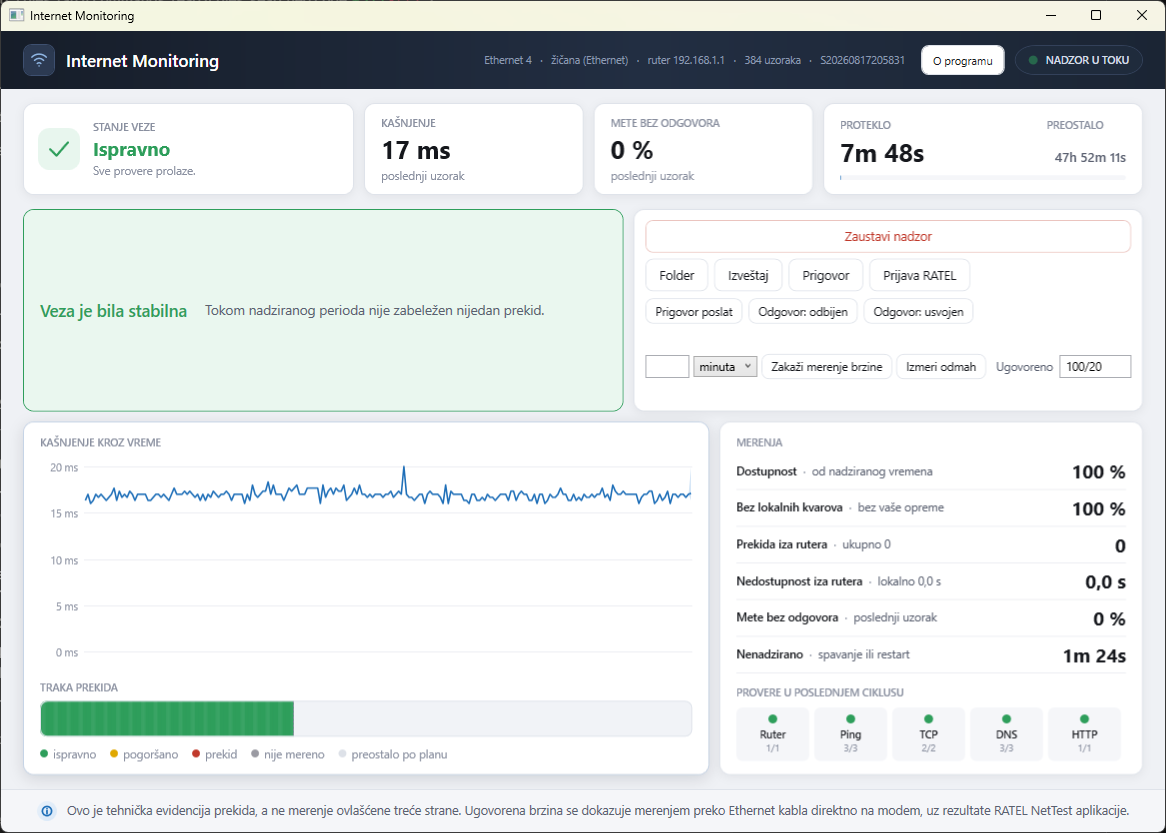
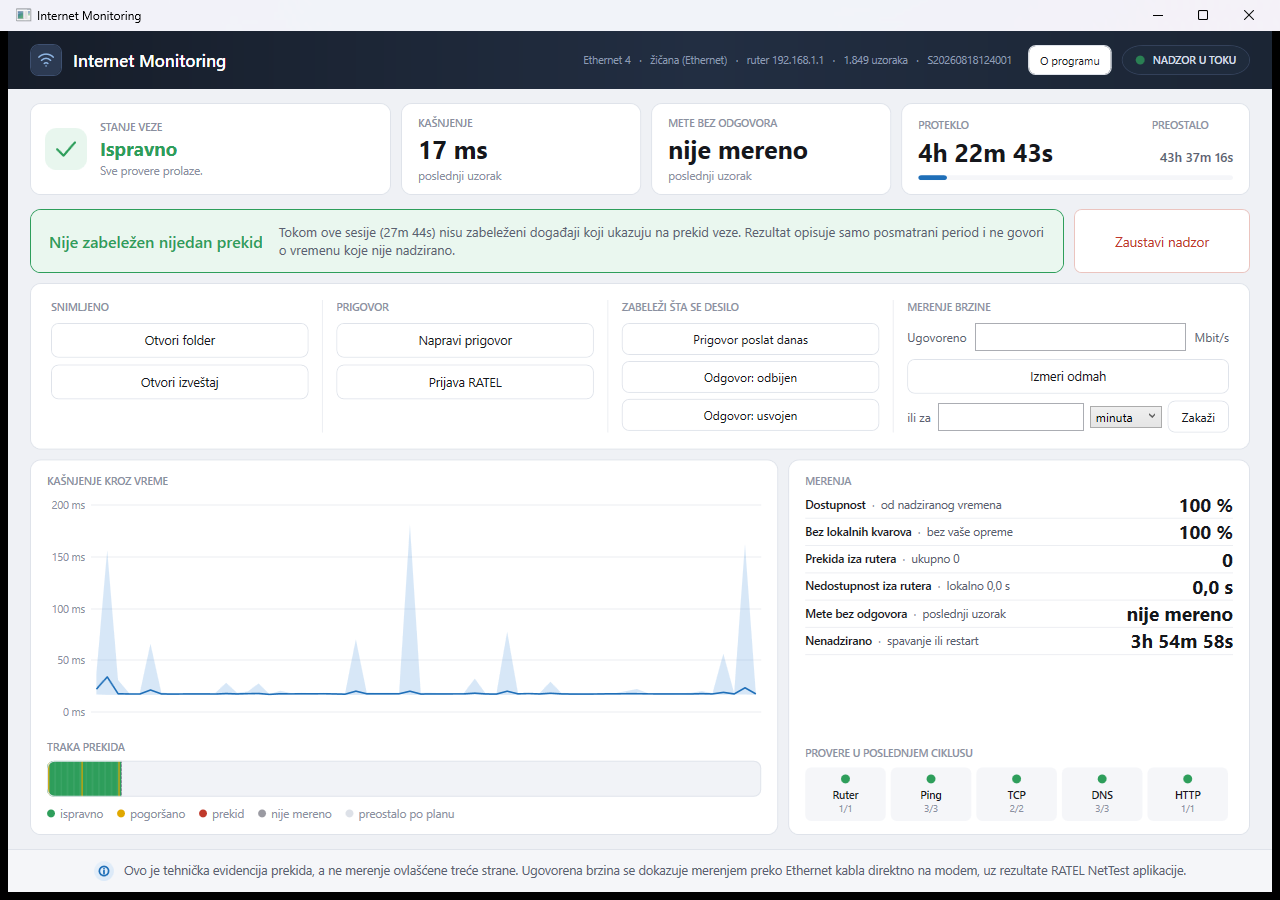
2.8.0-beta.4: dijalog pri zaustavljanju, bez efekata, jedna velicina prozora
Osvezene slike prozora, jer se raspored promenio iz korena.

diff --git a/CHANGELOG.md b/CHANGELOG.md
@@ -25,6 +25,29 @@ Sada iskoči prozor sa tri odgovora, i uz svaki piše šta radi: **zaustavi i na
 kaže jeste da se evidencija ne gubi ni u jednom slučaju. Zatvaranje prozora bilo čim što nije
 odgovor znači „nastavi": sesija zaustavljena slučajnim klikom ne može da se nastavi.
 
+### Prozor ima jednu veličinu, i ništa se ne skroluje ni ne seče
+
+Slobodan da se razvlači, prozor je mogao da dođe u oblik u koji pregled ne staje - a onda je
+izbor bio između teksta preko teksta i teksta koji je odsečen. Nijedno nije veličina koju je
+neko izabrao, a oba su prijavljena. Sada je oblik odlučen: **1280 × 900**, mera za koju je sve i
+raspoređeno. Ceo ekran ostaje dozvoljen, a na manjem ekranu se steže na radnu površinu.
+
+Uzrok preklapanja je bio konkretan: kartice su redove raspoređivale `UniformGrid`-om, koji deli
+raspoloživu visinu na jednake delove. Na nižem prozoru svaki red dobije manje nego što mu treba
+i prelomljeni redovi se popnu jedan na drugi. Redovi sada prate svoj sadržaj, slova su veća
+(12,5 → 13,5), a kartice sa spiskom fajlova i sa razlikama opet dele visinu među redovima pa se
+popunjavaju do dna - što je bezbedno tek otkako prozor ima jednu veličinu.
+
+### Nalaz je traka, a radnje dobijaju punu širinu
+
+Zeleni nalaz je stajao u koloni pored kartice sa dugmadima i rastezao se na njenu visinu, pa je
+najčešći rezultat - „nijedan prekid" - postajao prazan blok preko pola prozora. Sada je jedna
+traka preko cele širine, sa zaustavljanjem na njenom kraju.
+
+Dugmad su bila stisnuta u usku kolonu desno. Sada su četiri imenovane kolone preko cele širine -
+**snimljeno**, **prigovor**, **zabeleži šta se desilo**, **merenje brzine** - razdvojene tankim
+linijama, i svako dugme se rasteže na svoju kolonu.
+
 ### Interfejs više ne traži ništa od grafičkog drajvera
 
 Svaka kartica je nosila `DropShadowEffect`. WPF efekat iscrtava element i ceo njegov sadržaj
